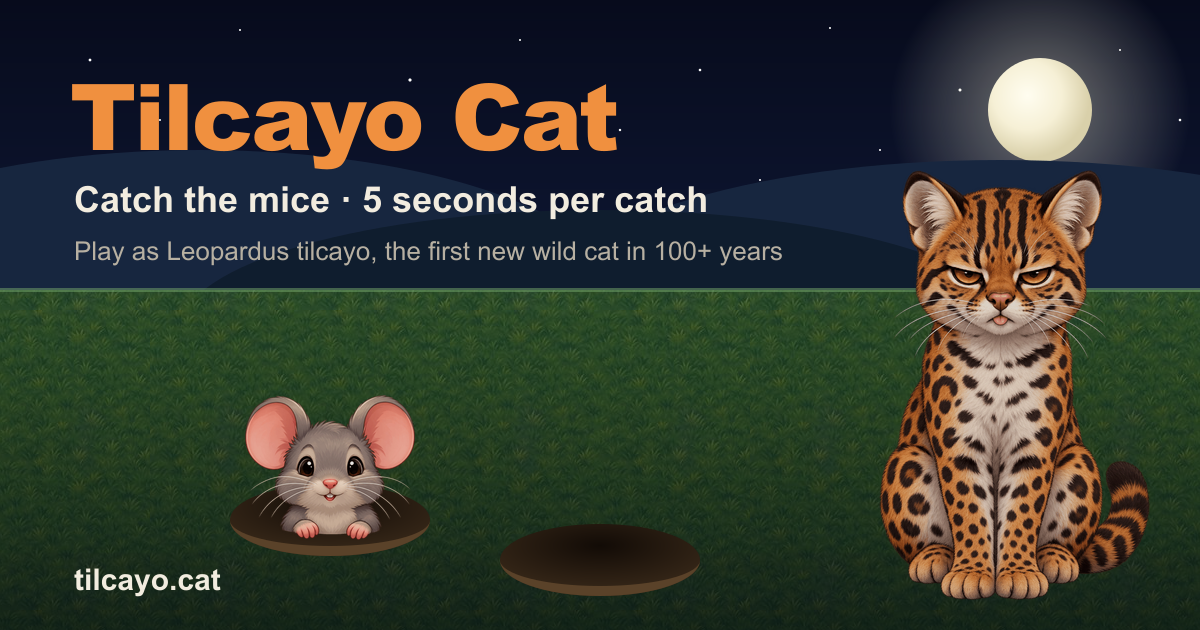
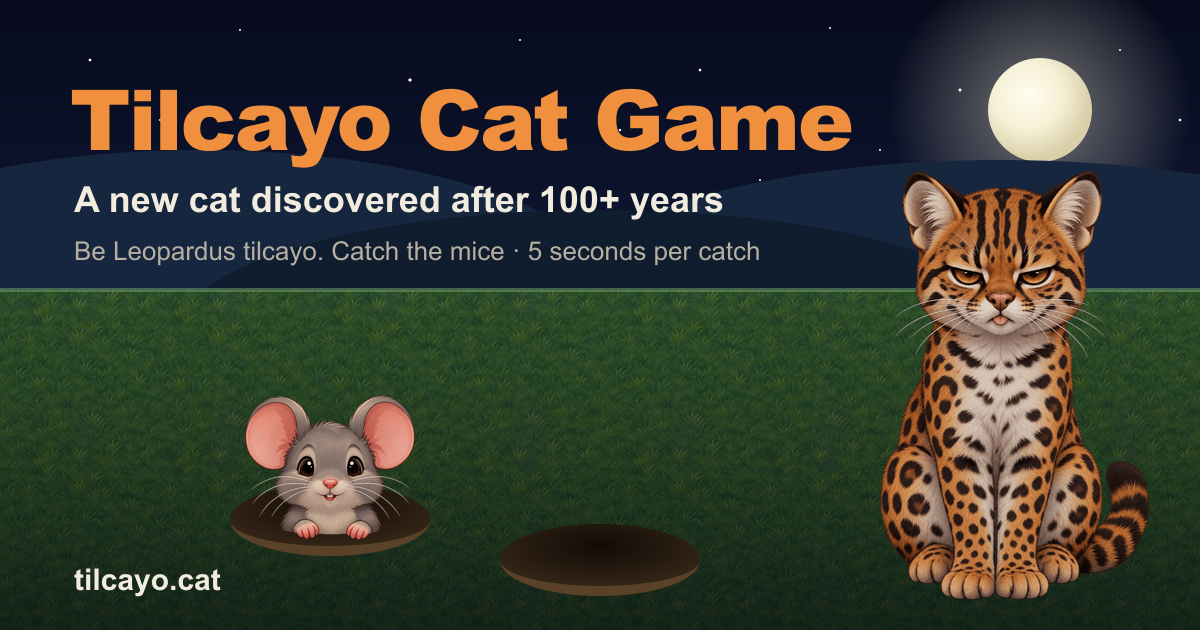
Rename to Tilcayo Cat Game, tighten SEO/GEO metadata, add llms-full.txt

Changed region(s): [[0.0617, 0.1206, 0.7092, 0.2714], [0.0617, 0.2714, 0.6475, 0.4222]]

diff --git a/index.html b/index.html
@@ -3,8 +3,8 @@
 <head>
   <meta charset="utf-8">
   <meta name="viewport" content="width=device-width, initial-scale=1, viewport-fit=cover, interactive-widget=resizes-content">
-  <title>Tilcayo Cat — Catch the Mice | Free Mobile Game</title>
-  <meta name="description" content="Play as the tilcayo cat (Leopardus tilcayo), the first new wild cat species discovered in over 100 years. Sit on the grass, pounce on the mice popping out of their holes, and never wait more than 5 seconds between catches.">
+  <title>Tilcayo Cat Game — A New Cat Discovered After 100+ Years</title>
+  <meta name="description" content="Tilcayo Cat Game: play as Leopardus tilcayo, the new wild cat discovered after 100+ years. Catch the mice popping from their holes before 5 seconds run out.">
   <meta name="keywords" content="tilcayo cat, Leopardus tilcayo, tilcayo game, new cat species, Bolivia wild cat, tiger cat, mouse catching game, mobile browser game, whack-a-mole cat">
   <meta name="author" content="tilcayo.cat">
   <meta name="robots" content="index, follow, max-image-preview:large, max-snippet:-1, max-video-preview:-1">
@@ -21,6 +21,11 @@
   <meta name="geo.placename" content="Yungas, Bolivia">
   <meta name="geo.position" content="-16.20;-67.75">
   <meta name="ICBM" content="-16.20, -67.75">
+  <meta name="rating" content="general">
+  <meta name="referrer" content="strict-origin-when-cross-origin">
+  <meta name="subject" content="Tilcayo cat (Leopardus tilcayo) browser game and species facts">
+  <meta name="abstract" content="Free browser game about the tilcayo cat, the new wild cat species discovered after more than 100 years, with a short, sourced profile of the animal.">
+  <meta name="msapplication-TileColor" content="#0a0e1c">
 
   <link rel="preconnect" href="https://fonts.googleapis.com">
   <link rel="preconnect" href="https://fonts.gstatic.com" crossorigin>
@@ -38,24 +43,25 @@
 
   <!-- Open Graph -->
   <meta property="og:type" content="website">
-  <meta property="og:site_name" content="Tilcayo Cat">
+  <meta property="og:site_name" content="Tilcayo Cat Game">
   <meta property="og:locale" content="en_US">
   <meta property="og:url" content="https://tilcayo.cat/">
-  <meta property="og:title" content="Tilcayo Cat — Catch the Mice">
-  <meta property="og:description" content="Be the tilcayo cat, the first new wild cat species in over a century. Pounce on the mice before 5 seconds run out.">
+  <meta property="og:title" content="Tilcayo Cat Game — A New Cat Discovered After 100+ Years">
+  <meta property="og:description" content="Tilcayo Cat Game — a new cat discovered after 100+ years. Be the tilcayo and catch the mice before 5 seconds run out.">
   <meta property="og:image" content="https://tilcayo.cat/og.png">
   <meta property="og:image:secure_url" content="https://tilcayo.cat/og.png">
   <meta property="og:image:type" content="image/png">
   <meta property="og:image:width" content="1200">
   <meta property="og:image:height" content="630">
-  <meta property="og:image:alt" content="Illustrated tilcayo cat sitting on grass next to a mouse hole, with the title Tilcayo Cat">
+  <meta property="og:updated_time" content="2026-09-17T22:00:00+00:00">
+  <meta property="og:image:alt" content="Tilcayo Cat Game: illustrated tilcayo cat (Leopardus tilcayo) on a moonlit lawn beside a mouse peeking from its hole">
 
   <!-- Twitter / X -->
   <meta name="twitter:card" content="summary_large_image">
-  <meta name="twitter:title" content="Tilcayo Cat — Catch the Mice">
-  <meta name="twitter:description" content="Be the tilcayo cat, the first new wild cat species in over a century. Pounce on the mice before 5 seconds run out.">
+  <meta name="twitter:title" content="Tilcayo Cat Game — A New Cat Discovered After 100+ Years">
+  <meta name="twitter:description" content="Tilcayo Cat Game — a new cat discovered after 100+ years. Be the tilcayo and catch the mice before 5 seconds run out.">
   <meta name="twitter:image" content="https://tilcayo.cat/og.png">
-  <meta name="twitter:image:alt" content="Illustrated tilcayo cat sitting on grass next to a mouse hole">
+  <meta name="twitter:image:alt" content="Tilcayo Cat Game: illustrated tilcayo cat on a moonlit lawn beside a mouse peeking from its hole">
 
   <script type="application/ld+json">
   {
@@ -65,10 +71,29 @@
         "@type": "WebSite",
         "@id": "https://tilcayo.cat/#website",
         "url": "https://tilcayo.cat/",
-        "name": "Tilcayo Cat",
-        "description": "A free mobile-first browser game starring the tilcayo cat (Leopardus tilcayo).",
+        "name": "Tilcayo Cat Game",
+        "alternateName": "Tilcayo Cat",
+        "description": "Tilcayo Cat Game: a free mobile-first browser game about the tilcayo cat (Leopardus tilcayo), the new cat species discovered after more than 100 years.",
         "inLanguage": "en",
+        "datePublished": "2026-09-17",
+        "dateModified": "2026-09-17",
+        "keywords": "tilcayo cat, Leopardus tilcayo, new cat species, cat game, Bolivia, Yungas, tiger cat",
+        "about": { "@id": "https://tilcayo.cat/#tilcayo" },
         "publisher": { "@id": "https://tilcayo.cat/#organization" }
+      },
+      {
+        "@type": "WebPage",
+        "@id": "https://tilcayo.cat/#webpage",
+        "url": "https://tilcayo.cat/",
+        "name": "Tilcayo Cat Game — A New Cat Discovered After 100+ Years",
+        "isPartOf": { "@id": "https://tilcayo.cat/#website" },
+        "about": { "@id": "https://tilcayo.cat/#tilcayo" },
+        "mainEntity": { "@id": "https://tilcayo.cat/#game" },
+        "primaryImageOfPage": { "@type": "ImageObject", "url": "https://tilcayo.cat/og.png", "width": 1200, "height": 630 },
+        "inLanguage": "en",
+        "datePublished": "2026-09-17",
+        "dateModified": "2026-09-17",
+        "speakable": { "@type": "SpeakableSpecification", "cssSelector": ["#aboutTitle", ".about__body > p:first-of-type", ".facts"] }
       },
       {
         "@type": "Organization",
@@ -80,7 +105,8 @@
       {
         "@type": ["VideoGame", "WebApplication"],
         "@id": "https://tilcayo.cat/#game",
-        "name": "Tilcayo Cat — Catch the Mice",
+        "name": "Tilcayo Cat Game — A New Cat Discovered After 100+ Years",
+        "alternateName": "Tilcayo Cat Game",
         "url": "https://tilcayo.cat/",
         "image": "https://tilcayo.cat/og.png",
         "description": "You are a tilcayo cat sitting on a lawn. Mice pop out of their holes; tap them to catch them. If more than 5 seconds pass without a catch, the game is over.",
@@ -93,6 +119,11 @@
         "numberOfPlayers": { "@type": "QuantitativeValue", "value": 1 },
         "inLanguage": "en",
         "isAccessibleForFree": true,
+        "datePublished": "2026-09-17",
+        "dateModified": "2026-09-17",
+        "keywords": "tilcayo cat game, catch the mice, whack-a-mole, reflex game, new cat species",
+        "thumbnailUrl": "https://tilcayo.cat/og.png",
+        "contentRating": "Everyone",
         "offers": { "@type": "Offer", "price": "0", "priceCurrency": "USD", "availability": "https://schema.org/InStock" },
         "character": { "@id": "https://tilcayo.cat/#tilcayo" },
         "publisher": { "@id": "https://tilcayo.cat/#organization" }
@@ -103,7 +134,16 @@
         "name": "Leopardus tilcayo",
         "alternateName": ["Tilcayo cat", "Tilcayo"],
         "taxonRank": "species",
-        "parentTaxon": { "@type": "Taxon", "name": "Leopardus", "taxonRank": "genus" },
+        "parentTaxon": { "@type": "Taxon", "name": "Leopardus", "taxonRank": "genus", "parentTaxon": { "@type": "Taxon", "name": "Felidae", "taxonRank": "family" } },
+        "url": "https://tilcayo.cat/#about",
+        "image": "https://tilcayo.cat/og.png",
+        "additionalProperty": [
+          { "@type": "PropertyValue", "name": "Native range", "value": "Yungas cloud forest, Bolivia" },
+          { "@type": "PropertyValue", "name": "Head-to-body length", "value": "about 45 cm (18 in)" },
+          { "@type": "PropertyValue", "name": "Weight", "value": "about 1.3 kg (3 lb)" },
+          { "@type": "PropertyValue", "name": "Described", "value": "September 2026, Current Biology" },
+          { "@type": "PropertyValue", "name": "Activity", "value": "Nocturnal" }
+        ],
         "description": "A small spotted wild cat native to the Bolivian Yungas cloud forest, formally described in September 2026 in Current Biology as the first new wild cat species in more than a century. It belongs to the tiger cat group, is smaller than a domestic cat (about 45 cm body length and 1.3 kg), and is distinguished from the oncilla by larger spot markings, a longer and more slender tail, and muted fur colour.",
         "subjectOf": [
           { "@type": "ScholarlyArticle", "name": "Tiger cats species delimitation (Current Biology, 2026)", "url": "https://www.cell.com/current-biology/fulltext/S0960-9822(26)01110-3" }
@@ -194,8 +234,8 @@
 
     <div id="overlay" class="overlay" role="dialog" aria-modal="true" aria-labelledby="overlayTitle">
       <div class="overlay__card">
-        <h1 id="overlayTitle" class="overlay__title">Tilcayo Cat</h1>
-        <p id="overlayText" class="overlay__text">A moonlit night in the Yungas. You are a tilcayo, the first new wild cat in over a century. Tap the mice as they pop out. <strong>Never go more than 5 seconds without a catch.</strong></p>
+        <h1 id="overlayTitle" class="overlay__title">Tilcayo Cat Game</h1>
+        <p id="overlayText" class="overlay__text">A moonlit night in the Yungas. You are a tilcayo, the new cat species discovered after 100+ years. Tap the mice as they pop out. <strong>Never go more than 5 seconds without a catch.</strong></p>
         <p id="overlayStats" class="overlay__stats" hidden></p>
         <div class="overlay__actions">
           <button id="playBtn" class="btn btn--primary" type="button">Play</button>
@@ -207,7 +247,7 @@
   </main>
 
   <dialog id="aboutDialog" class="about" aria-labelledby="aboutTitle">
-    <article class="about__body">
+    <article class="about__body" id="about">
       <header class="about__header">
         <h2 id="aboutTitle">The tilcayo cat</h2>
         <p class="about__latin"><em>Leopardus tilcayo</em> · Bolivian Yungas cloud forest</p>

diff --git a/src/main.ts b/src/main.ts
@@ -98,7 +98,7 @@ shareBtn.addEventListener("click", async () => {
   const url = "https://tilcayo.cat/";
   try {
     if (navigator.share) {
-      await navigator.share({ title: "Tilcayo Cat", text, url });
+      await navigator.share({ title: "Tilcayo Cat Game", text, url });
     } else {
       await navigator.clipboard.writeText(`${text} ${url}`);
       shareBtn.textContent = "Copied!";

diff --git a/README.md b/README.md
@@ -1,4 +1,6 @@
-# Tilcayo Cat
+# Tilcayo Cat Game
+
+A new cat discovered after 100+ years, turned into a game.
 
 A mobile-first browser game at [tilcayo.cat](https://tilcayo.cat). You are a tilcayo cat (*Leopardus tilcayo*, the first new wild cat species described in over a century) sitting on the grass. Tap the mice as they pop out of their holes. Go more than **5 seconds** without a catch and the round is over.
 
